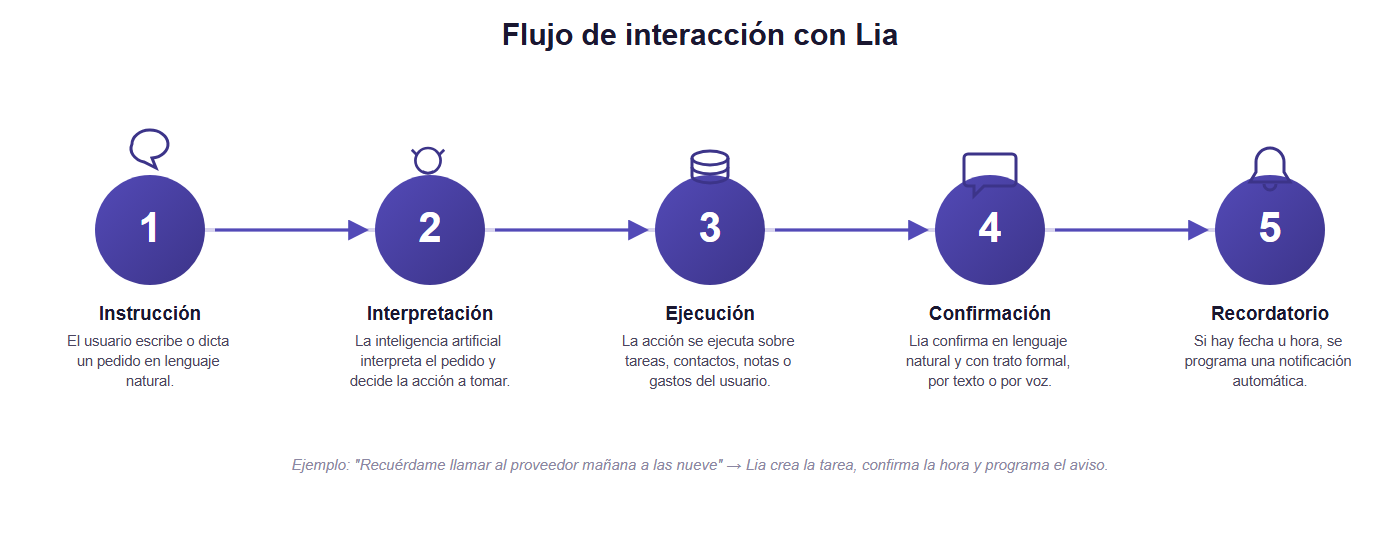
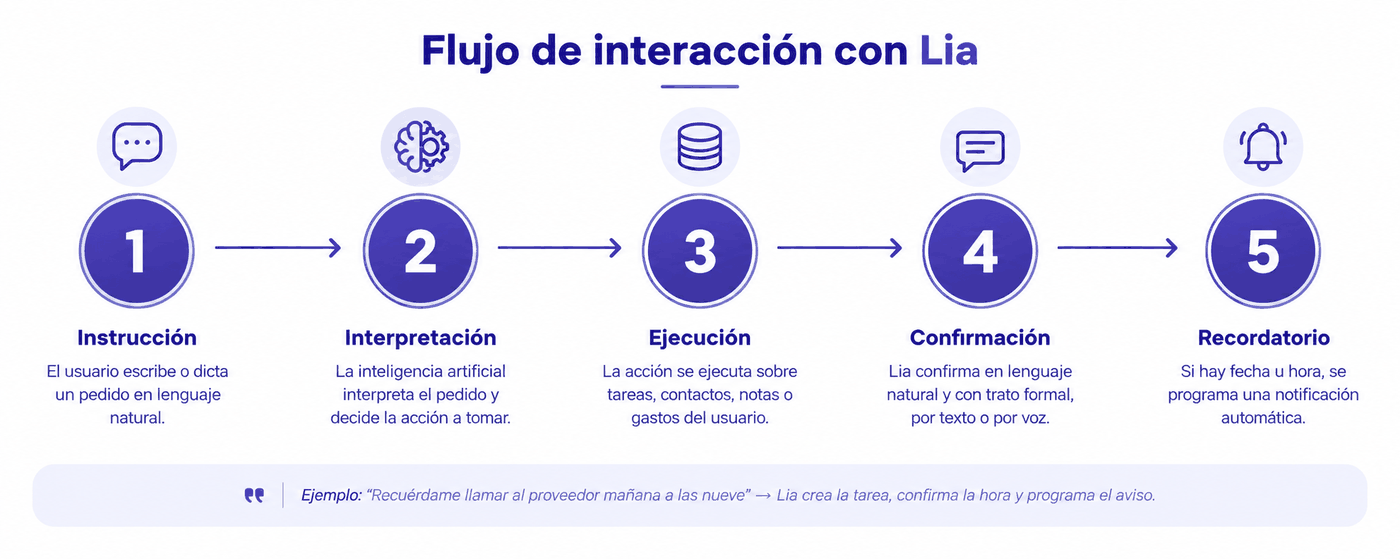
Add real app screenshots to section 4.1 and swap the flow diagram
Figures 1-4 show the actual Inicio, Conversación, Tareas and Más
screens (captured from the running app with sample data). Figure 5
(interaction flow) is replaced with a nicer user-provided version of
the same diagram, recompressed for size.

diff --git a/DOCUMENTACION.md b/DOCUMENTACION.md
@@ -126,17 +126,36 @@ El diseño de Lia se organiza en tres capas que trabajan de forma coordinada: un
 Lia se presenta como una aplicación de una sola pantalla que se organiza en cuatro secciones principales, a las que se accede mediante una barra de navegación inferior:
 
 - **Inicio**, la pantalla principal, con un campo para escribir o dictar una instrucción de manera rápida.
+
+  ![Figura 1. Pantalla de Inicio](assets/pantalla-inicio.png)
+
+  *Figura 1. Pantalla de Inicio.*
+
 - **Conversación**, donde se desarrolla el intercambio de mensajes con Lia, por texto o por voz, y donde se muestran sus respuestas. Cuando Lia redacta una carta, un memorando o un correo formal, el usuario puede copiar el texto directamente desde la burbuja de respuesta.
+
+  ![Figura 2. Pantalla de Conversación](assets/pantalla-chat.png)
+
+  *Figura 2. Pantalla de Conversación.*
+
 - **Tareas**, donde se visualizan los pendientes ya registrados, organizados por fecha, con su prioridad, hora y estado.
+
+  ![Figura 3. Pantalla de Tareas](assets/pantalla-tareas.png)
+
+  *Figura 3. Pantalla de Tareas.*
+
 - **Más**, donde el usuario administra su cuenta y accede a las demás funciones secretariales de Lia: Contactos, Notas de reunión y Caja chica, cada una con su propia pantalla de lista y creación manual, además de poder gestionarse por conversación. Un usuario administrador accede además, desde esta misma sección, a un panel para gestionar las cuentas del resto de los usuarios.
+
+  ![Figura 4. Pantalla de Más](assets/pantalla-mas.png)
+
+  *Figura 4. Pantalla de Más.*
 
 ### 4.2 FLUJO DE INTERACCIÓN
 
-El diseño de Lia sigue siempre el mismo recorrido, sin importar qué se le solicite, tal como se resume en la Figura 1: el usuario da una instrucción en lenguaje natural, la inteligencia artificial la interpreta y decide qué acción corresponde, esa acción se ejecuta sobre la información del usuario (una tarea, un contacto, una nota o un gasto), Lia confirma el resultado en lenguaje natural y con trato formal, y, si corresponde una fecha u hora específica, se programa de manera automática una notificación.
+El diseño de Lia sigue siempre el mismo recorrido, sin importar qué se le solicite, tal como se resume en la Figura 5: el usuario da una instrucción en lenguaje natural, la inteligencia artificial la interpreta y decide qué acción corresponde, esa acción se ejecuta sobre la información del usuario (una tarea, un contacto, una nota o un gasto), Lia confirma el resultado en lenguaje natural y con trato formal, y, si corresponde una fecha u hora específica, se programa de manera automática una notificación.
 
-![Figura 1. Flujo de interacción con Lia](assets/flujo-interaccion.png)
+![Figura 5. Flujo de interacción con Lia](assets/flujo-interaccion.png)
 
-*Figura 1. Flujo de interacción con Lia.*
+*Figura 5. Flujo de interacción con Lia.*
 
 ### 4.3 ALMACENAMIENTO Y NOTIFICACIONES
 
